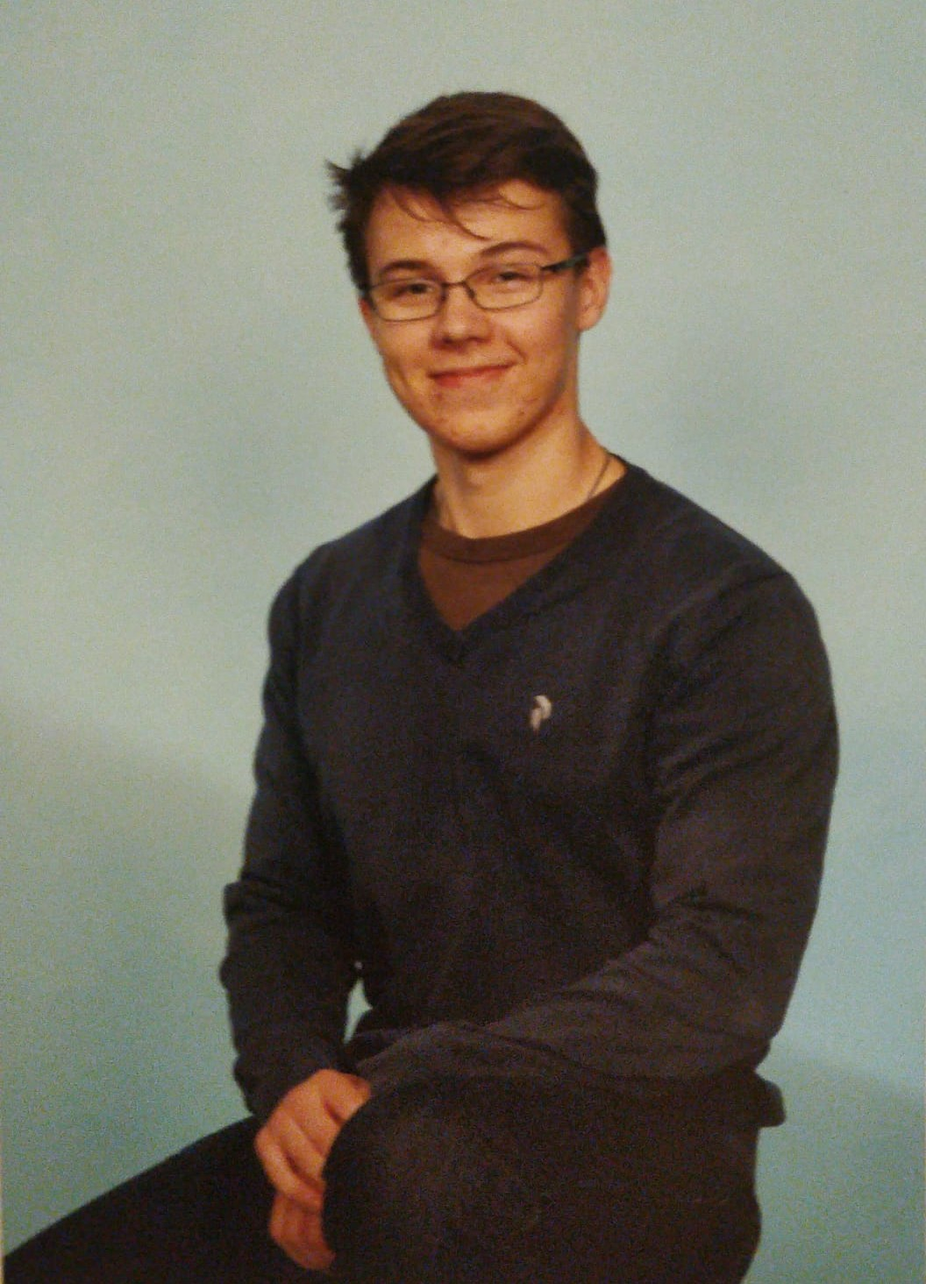
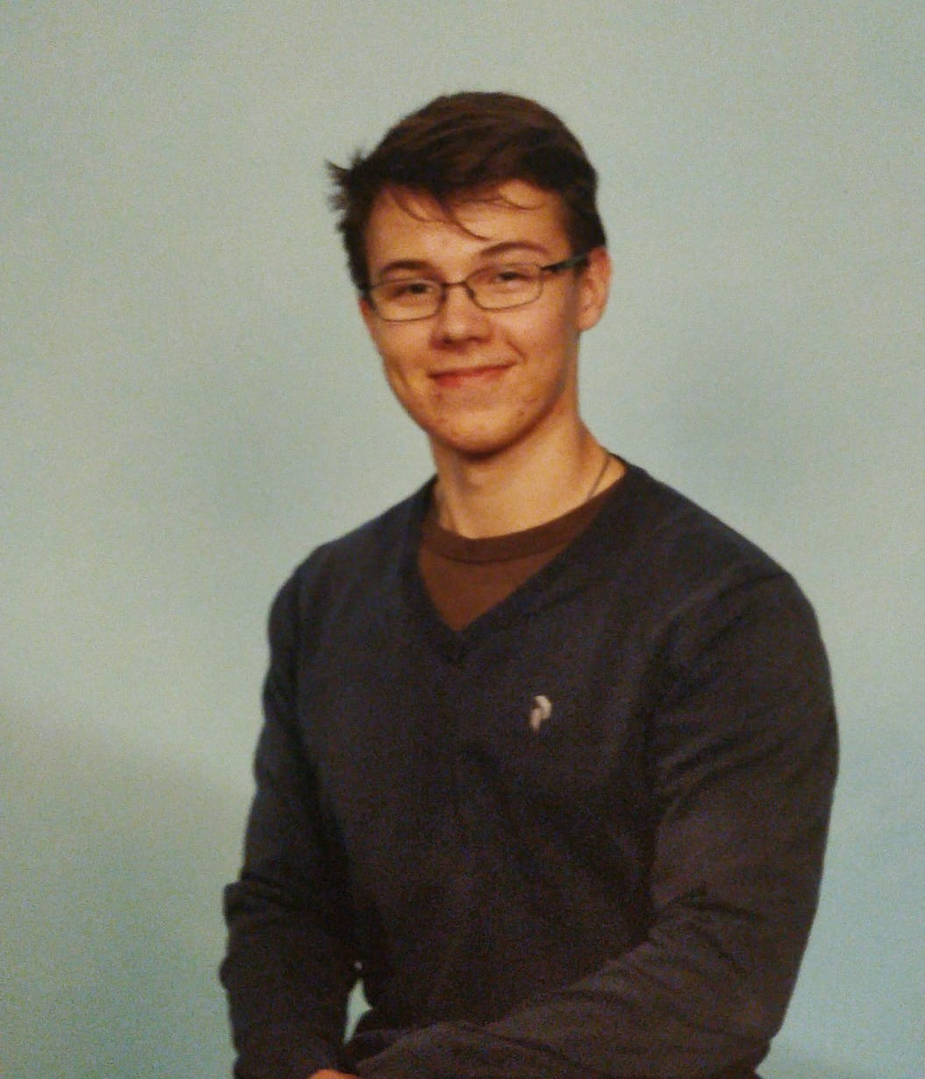
Near complete makeover of site

Changed region(s): [[0.0, 0.0618, 1.0, 1.0], [0.728, 0.5252, 0.7583, 0.5561], [0.6976, 0.5561, 0.728, 0.587]]

diff --git a/style.css b/style.css
@@ -1,1 +1,1 @@
-:root{--color__text:#f0f0f0;--color__title:#fff;--color__background:#151a1e;--color__secondary:#1c242d;--color__accent:#cbb6e7}.h1,h1{font-size:clamp(2.11rem,1.93rem + .89vw,3rem)}.h2,h2{font-size:clamp(1.88rem,1.75rem + .63vw,2.5rem)}.h3,h3{font-size:clamp(1.48rem,1.43rem + .26vw,1.74rem)}.h4,h4{font-size:clamp(1.17rem,1.16rem + .04vw,1.21rem)}.h5,h5,p{font-size:clamp(1.04rem,1.05rem - .04vw,1.01rem)}p{max-width:75ch}*{color:var(--color__text);line-height:1.5}.h1,.h2,.h3,.h4,.h5,.h6,h1,h2,h3,h4,h5,h6{color:var(--color__title);line-height:1.1}@font-face{font-display:swap;font-family:Montserrat;font-style:normal;font-weight:200;src:url(https://fonts.gstatic.com/s/montserrat/v23/JTUSjIg1_i6t8kCHKm459WRhyzbi.woff2) format("woff2");unicode-range:U+0460-052f,U+1c80-1c88,U+20b4,U+2de0-2dff,U+a640-a69f,U+fe2e-fe2f}@font-face{font-display:swap;font-family:Montserrat;font-style:normal;font-weight:200;src:url(https://fonts.gstatic.com/s/montserrat/v23/JTUSjIg1_i6t8kCHKm459W1hyzbi.woff2) format("woff2");unicode-range:U+0400-045f,U+0490-0491,U+04b0-04b1,U+2116}@font-face{font-display:swap;font-family:Montserrat;font-style:normal;font-weight:200;src:url(https://fonts.gstatic.com/s/montserrat/v23/JTUSjIg1_i6t8kCHKm459WZhyzbi.woff2) format("woff2");unicode-range:U+0102-0103,U+0110-0111,U+0128-0129,U+0168-0169,U+01a0-01a1,U+01af-01b0,U+1ea0-1ef9,U+20ab}@font-face{font-display:swap;font-family:Montserrat;font-style:normal;font-weight:200;src:url(https://fonts.gstatic.com/s/montserrat/v23/JTUSjIg1_i6t8kCHKm459Wdhyzbi.woff2) format("woff2");unicode-range:U+0100-024f,U+0259,U+1e??,U+2020,U+20a0-20ab,U+20ad-20cf,U+2113,U+2c60-2c7f,U+a720-a7ff}@font-face{font-display:swap;font-family:Montserrat;font-style:normal;font-weight:200;src:url(https://fonts.gstatic.com/s/montserrat/v23/JTUSjIg1_i6t8kCHKm459Wlhyw.woff2) format("woff2");unicode-range:U+00??,U+0131,U+0152-0153,U+02bb-02bc,U+02c6,U+02da,U+02dc,U+2000-206f,U+2074,U+20ac,U+2122,U+2191,U+2193,U+2212,U+2215,U+feff,U+fffd}@font-face{font-display:swap;font-family:Montserrat;font-style:normal;font-weight:300;src:url(https://fonts.gstatic.com/s/montserrat/v23/JTUSjIg1_i6t8kCHKm459WRhyzbi.woff2) format("woff2");unicode-range:U+0460-052f,U+1c80-1c88,U+20b4,U+2de0-2dff,U+a640-a69f,U+fe2e-fe2f}@font-face{font-display:swap;font-family:Montserrat;font-style:normal;font-weight:300;src:url(https://fonts.gstatic.com/s/montserrat/v23/JTUSjIg1_i6t8kCHKm459W1hyzbi.woff2) format("woff2");unicode-range:U+0400-045f,U+0490-0491,U+04b0-04b1,U+2116}@font-face{font-display:swap;font-family:Montserrat;font-style:normal;font-weight:300;src:url(https://fonts.gstatic.com/s/montserrat/v23/JTUSjIg1_i6t8kCHKm459WZhyzbi.woff2) format("woff2");unicode-range:U+0102-0103,U+0110-0111,U+0128-0129,U+0168-0169,U+01a0-01a1,U+01af-01b0,U+1ea0-1ef9,U+20ab}@font-face{font-display:swap;font-family:Montserrat;font-style:normal;font-weight:300;src:url(https://fonts.gstatic.com/s/montserrat/v23/JTUSjIg1_i6t8kCHKm459Wdhyzbi.woff2) format("woff2");unicode-range:U+0100-024f,U+0259,U+1e??,U+2020,U+20a0-20ab,U+20ad-20cf,U+2113,U+2c60-2c7f,U+a720-a7ff}@font-face{font-display:swap;font-family:Montserrat;font-style:normal;font-weight:300;src:url(https://fonts.gstatic.com/s/montserrat/v23/JTUSjIg1_i6t8kCHKm459Wlhyw.woff2) format("woff2");unicode-range:U+00??,U+0131,U+0152-0153,U+02bb-02bc,U+02c6,U+02da,U+02dc,U+2000-206f,U+2074,U+20ac,U+2122,U+2191,U+2193,U+2212,U+2215,U+feff,U+fffd}@font-face{font-display:swap;font-family:Montserrat;font-style:normal;font-weight:400;src:url(https://fonts.gstatic.com/s/montserrat/v23/JTUSjIg1_i6t8kCHKm459WRhyzbi.woff2) format("woff2");unicode-range:U+0460-052f,U+1c80-1c88,U+20b4,U+2de0-2dff,U+a640-a69f,U+fe2e-fe2f}@font-face{font-display:swap;font-family:Montserrat;font-style:normal;font-weight:400;src:url(https://fonts.gstatic.com/s/montserrat/v23/JTUSjIg1_i6t8kCHKm459W1hyzbi.woff2) format("woff2");unicode-range:U+0400-045f,U+0490-0491,U+04b0-04b1,U+2116}@font-face{font-display:swap;font-family:Montserrat;font-style:normal;font-weight:400;src:url(https://fonts.gstatic.com/s/montserrat/v23/JTUSjIg1_i6t8kCHKm459WZhyzbi.woff2) format("woff2");unicode-range:U+0102-0103,U+0110-0111,U+0128-0129,U+0168-0169,U+01a0-01a1,U+01af-01b0,U+1ea0-1ef9,U+20ab}@font-face{font-display:swap;font-family:Montserrat;font-style:normal;font-weight:400;src:url(https://fonts.gstatic.com/s/montserrat/v23/JTUSjIg1_i6t8kCHKm459Wdhyzbi.woff2) format("woff2");unicode-range:U+0100-024f,U+0259,U+1e??,U+2020,U+20a0-20ab,U+20ad-20cf,U+2113,U+2c60-2c7f,U+a720-a7ff}@font-face{font-display:swap;font-family:Montserrat;font-style:normal;font-weight:400;src:url(https://fonts.gstatic.com/s/montserrat/v23/JTUSjIg1_i6t8kCHKm459Wlhyw.woff2) format("woff2");unicode-range:U+00??,U+0131,U+0152-0153,U+02bb-02bc,U+02c6,U+02da,U+02dc,U+2000-206f,U+2074,U+20ac,U+2122,U+2191,U+2193,U+2212,U+2215,U+feff,U+fffd}@font-face{font-display:swap;font-family:Montserrat;font-style:normal;font-weight:700;src:url(https://fonts.gstatic.com/s/montserrat/v23/JTUSjIg1_i6t8kCHKm459WRhyzbi.woff2) format("woff2");unicode-range:U+0460-052f,U+1c80-1c88,U+20b4,U+2de0-2dff,U+a640-a69f,U+fe2e-fe2f}@font-face{font-display:swap;font-family:Montserrat;font-style:normal;font-weight:700;src:url(https://fonts.gstatic.com/s/montserrat/v23/JTUSjIg1_i6t8kCHKm459W1hyzbi.woff2) format("woff2");unicode-range:U+0400-045f,U+0490-0491,U+04b0-04b1,U+2116}@font-face{font-display:swap;font-family:Montserrat;font-style:normal;font-weight:700;src:url(https://fonts.gstatic.com/s/montserrat/v23/JTUSjIg1_i6t8kCHKm459WZhyzbi.woff2) format("woff2");unicode-range:U+0102-0103,U+0110-0111,U+0128-0129,U+0168-0169,U+01a0-01a1,U+01af-01b0,U+1ea0-1ef9,U+20ab}@font-face{font-display:swap;font-family:Montserrat;font-style:normal;font-weight:700;src:url(https://fonts.gstatic.com/s/montserrat/v23/JTUSjIg1_i6t8kCHKm459Wdhyzbi.woff2) format("woff2");unicode-range:U+0100-024f,U+0259,U+1e??,U+2020,U+20a0-20ab,U+20ad-20cf,U+2113,U+2c60-2c7f,U+a720-a7ff}@font-face{font-display:swap;font-family:Montserrat;font-style:normal;font-weight:700;src:url(https://fonts.gstatic.com/s/montserrat/v23/JTUSjIg1_i6t8kCHKm459Wlhyw.woff2) format("woff2");unicode-range:U+00??,U+0131,U+0152-0153,U+02bb-02bc,U+02c6,U+02da,U+02dc,U+2000-206f,U+2074,U+20ac,U+2122,U+2191,U+2193,U+2212,U+2215,U+feff,U+fffd}@font-face{font-family:Material Icons;font-style:normal;font-weight:400;src:url(https://fonts.gstatic.com/s/materialicons/v126/flUhRq6tzZclQEJ-Vdg-IuiaDsNc.woff2) format("woff2")}.material-icons{word-wrap:normal;-webkit-font-feature-settings:"liga";-webkit-font-smoothing:antialiased;direction:ltr;display:inline-block;font-family:Material Icons;font-size:24px;font-style:normal;font-weight:400;letter-spacing:normal;line-height:1;text-transform:none;white-space:nowrap}body,html{background:linear-gradient(45deg,hsla(0,0%,73%,.04),hsla(0,0%,73%,.04) 50%,rgba(86,86,86,.04) 0,rgba(86,86,86,.04)),linear-gradient(135deg,hsla(0,0%,65%,.04),hsla(0,0%,65%,.04) 50%,rgba(92,92,92,.04) 0,rgba(92,92,92,.04)),linear-gradient(90deg,#141414,#141414);background-size:142px 142px;margin:0;max-width:100%;overflow-x:hidden;padding:0;scroll-behavior:smooth;scrollbar-width:none}body *,html *{box-sizing:border-box;cursor:default;font-family:Montserrat,sans-serif;font-weight:400;margin:0;padding:0;text-decoration:none;transition:.3s}body ::-webkit-scrollbar,html ::-webkit-scrollbar{display:none;visibility:hidden}body ::-moz-selection,html ::-moz-selection{background:hsla(0,8%,90%,.5)}body ::-moz-selection,body ::selection,html ::-moz-selection,html ::selection{background:hsla(0,8%,90%,.5)}.noselect{-webkit-touch-callout:none;-webkit-user-select:none;-moz-user-select:none;-ms-user-select:none;user-select:none}.logo{left:10px;position:fixed;top:10px;z-index:99}.logo svg{height:70px;width:70px}.logo svg *{stroke:#e7e3e3;stroke-width:5px}.logo svg #outline{stroke-width:3px}#navigation,nav{position:fixed;top:-100vh}.opening{height:100vh;overflow:hidden;position:relative;width:100vw}.opening .openinglogo{background:transparent;position:absolute;right:75%;top:50%;transform:translate(50%,-50%)}.opening .openinglogo svg{height:800px;width:800px}.opening .openinglogo svg *{stroke:#424141;stroke-width:2px}.opening .openinglogo svg #outline{stroke-width:1px}.opening .selection{background:transparent;display:flex;line-height:6vh;margin:1vh 3vh 0 0;position:absolute;right:0;width:auto;z-index:2}.opening .selection h2{font-size:2vh;padding:0 2.5vh}.opening .selection h2 a{color:#e7e3e3;cursor:pointer}.opening .selection h2 a:hover{color:#929191}.opening .text{left:43%;position:absolute;text-align:left;top:45vh;transform:translateY(-50%)}.opening .text h1{color:#e7e3e3;font-size:10vh}.opening .text h3{color:#929191;font-size:2.5vh;margin-left:10px}.opening .some{bottom:1vh;position:absolute;right:2vw;z-index:91}.opening .some *{color:#e7e3e3;cursor:pointer;font-size:3vh;margin:0 0 0 20px;padding:1vh}.opening .some :hover{color:#929191}.informationtext{background:#424141;color:#e7e3e3;min-height:50vh;padding:15vh 10vw;position:relative;width:100vw}.informationtext h2{font-size:40px;font-weight:700}.informationtext .imagecontainer{position:absolute;right:10vw;top:3vh;width:15vw}.informationtext .imagecontainer img{width:20vh}.informationtext .container{display:flex;flex-direction:row;justify-content:space-between;margin:5vh 0 0}.informationtext .container div{width:30%}.informationtext .container div h3{font-size:20px;font-weight:700;margin:20px 0}.informationtext .container div ul{margin:10px 0 0 20px}.bearintlink{color:#96bfff;cursor:pointer}main{padding:30vh 10vw;position:relative}main *{color:#e7e3e3;list-style:none}main * a:hover{color:#929191;cursor:pointer}main div{margin:0 0 0 5vw}main h2{font-size:40px;font-weight:700}main h3{font-size:20px;margin:8vh 0 2vh}main ul{margin:10px 20px}main ul li{margin:5px}footer{background:#424141;display:flex;flex-direction:row;height:50vh;justify-content:space-evenly}footer *{color:#e7e3e3;font-size:17px;text-align:center}footer div{align-items:center;display:flex;flex-direction:column;justify-content:center}footer div h3{font-size:4vh;padding:1vh 0 2vh}footer div a{cursor:pointer}footer div a:hover{color:#424141}footer .area-2 p a{font-size:25.5px;padding:2vh}@media (max-width:950px){.informationtext .imagecontainer img{width:0}.informationtext .container{flex-direction:column}.informationtext .container div{padding-top:50px;width:80%}}@media (max-width:800px){footer{flex-direction:column;height:80vh}.opening .text h1{font-size:7vh}.opening .text h3{font-size:2vh}.opening .logo svg{height:50px;width:50px}}@media (max-width:500px){.logo svg{height:50px;width:50px}.opening .selection h2{font-size:1.7vh}.informationtext h2{font-size:30px}}.anim{opacity:0}@-webkit-keyframes movestuff{0%{margin-top:0}to{margin-top:-2vh}}@keyframes movestuff{0%{margin-top:0}to{margin-top:-2vh}}@-webkit-keyframes fade-in{0%{opacity:0}to{opacity:1}}@keyframes fade-in{0%{opacity:0}to{opacity:1}}
+:root{--color__text:#e7e7e7;--color__title:#f0f0f0;--color__background:#424141;--color__secondary:#929191;--color__accent:#e7e3e3;--font-size-1:clamp(0.58rem,calc(0.61rem - 0.17vw),0.40rem);--font-size-2:clamp(0.65rem,calc(0.68rem - 0.16vw),0.48rem);--font-size-3:clamp(0.73rem,calc(0.76rem - 0.15vw),0.58rem);--font-size-4:clamp(0.82rem,calc(0.85rem - 0.12vw),0.70rem);--font-size-5:clamp(0.93rem,calc(0.94rem - 0.09vw),0.84rem);--font-size-6:clamp(1.04rem,calc(1.05rem - 0.04vw),1.01rem);--font-size-7:clamp(1.17rem,calc(1.16rem + 0.04vw),1.21rem);--font-size-8:clamp(1.32rem,calc(1.29rem + 0.13vw),1.45rem);--font-size-9:clamp(1.48rem,calc(1.43rem + 0.26vw),1.74rem);--font-size-10:clamp(1.67rem,calc(1.58rem + 0.42vw),2.08rem);--font-size-11:clamp(1.88rem,calc(1.75rem + 0.63vw),2.50rem);--font-size-12:clamp(2.11rem,calc(1.93rem + 0.89vw),3.00rem);--font-size-13:clamp(2.37rem,calc(2.13rem + 1.23vw),3.60rem);--font-size-14:clamp(2.67rem,calc(2.34rem + 1.65vw),4.32rem);--font-size-15:clamp(3.00rem,calc(2.57rem + 2.18vw),5.18rem);--font-size-16:clamp(3.38rem,calc(2.81rem + 2.84vw),6.22rem);--font-size-17:clamp(3.80rem,calc(3.07rem + 3.66vw),7.47rem);--font-size-18:clamp(4.28rem,calc(3.34rem + 4.68vw),8.96rem);--font-size-19:clamp(4.81rem,calc(3.62rem + 5.94vw),10.75rem);--font-size-20:clamp(5.41rem,calc(3.92rem + 7.49vw),12.90rem);--font-size-21:clamp(6.09rem,calc(4.21rem + 9.39vw),15.48rem)}.h1,h1{font-size:var(--font-size-12)}.h2,h2{font-size:var(--font-size-11)}.h3,h3{font-size:var(--font-size-9)}.h4,h4{font-size:var(--font-size-7)}.h5,h5,p{font-size:var(--font-size-6)}p{max-width:75ch}*{color:var(--color__text);line-height:1.5}.h1,.h2,.h3,.h4,.h5,.h6,h1,h2,h3,h4,h5,h6{color:var(--color__title);line-height:1.1}@font-face{font-display:swap;font-family:Montserrat;font-style:normal;font-weight:200;src:url(https://fonts.gstatic.com/s/montserrat/v23/JTUSjIg1_i6t8kCHKm459WRhyzbi.woff2) format("woff2");unicode-range:U+0460-052f,U+1c80-1c88,U+20b4,U+2de0-2dff,U+a640-a69f,U+fe2e-fe2f}@font-face{font-display:swap;font-family:Montserrat;font-style:normal;font-weight:200;src:url(https://fonts.gstatic.com/s/montserrat/v23/JTUSjIg1_i6t8kCHKm459W1hyzbi.woff2) format("woff2");unicode-range:U+0400-045f,U+0490-0491,U+04b0-04b1,U+2116}@font-face{font-display:swap;font-family:Montserrat;font-style:normal;font-weight:200;src:url(https://fonts.gstatic.com/s/montserrat/v23/JTUSjIg1_i6t8kCHKm459WZhyzbi.woff2) format("woff2");unicode-range:U+0102-0103,U+0110-0111,U+0128-0129,U+0168-0169,U+01a0-01a1,U+01af-01b0,U+1ea0-1ef9,U+20ab}@font-face{font-display:swap;font-family:Montserrat;font-style:normal;font-weight:200;src:url(https://fonts.gstatic.com/s/montserrat/v23/JTUSjIg1_i6t8kCHKm459Wdhyzbi.woff2) format("woff2");unicode-range:U+0100-024f,U+0259,U+1e??,U+2020,U+20a0-20ab,U+20ad-20cf,U+2113,U+2c60-2c7f,U+a720-a7ff}@font-face{font-display:swap;font-family:Montserrat;font-style:normal;font-weight:200;src:url(https://fonts.gstatic.com/s/montserrat/v23/JTUSjIg1_i6t8kCHKm459Wlhyw.woff2) format("woff2");unicode-range:U+00??,U+0131,U+0152-0153,U+02bb-02bc,U+02c6,U+02da,U+02dc,U+2000-206f,U+2074,U+20ac,U+2122,U+2191,U+2193,U+2212,U+2215,U+feff,U+fffd}@font-face{font-display:swap;font-family:Montserrat;font-style:normal;font-weight:300;src:url(https://fonts.gstatic.com/s/montserrat/v23/JTUSjIg1_i6t8kCHKm459WRhyzbi.woff2) format("woff2");unicode-range:U+0460-052f,U+1c80-1c88,U+20b4,U+2de0-2dff,U+a640-a69f,U+fe2e-fe2f}@font-face{font-display:swap;font-family:Montserrat;font-style:normal;font-weight:300;src:url(https://fonts.gstatic.com/s/montserrat/v23/JTUSjIg1_i6t8kCHKm459W1hyzbi.woff2) format("woff2");unicode-range:U+0400-045f,U+0490-0491,U+04b0-04b1,U+2116}@font-face{font-display:swap;font-family:Montserrat;font-style:normal;font-weight:300;src:url(https://fonts.gstatic.com/s/montserrat/v23/JTUSjIg1_i6t8kCHKm459WZhyzbi.woff2) format("woff2");unicode-range:U+0102-0103,U+0110-0111,U+0128-0129,U+0168-0169,U+01a0-01a1,U+01af-01b0,U+1ea0-1ef9,U+20ab}@font-face{font-display:swap;font-family:Montserrat;font-style:normal;font-weight:300;src:url(https://fonts.gstatic.com/s/montserrat/v23/JTUSjIg1_i6t8kCHKm459Wdhyzbi.woff2) format("woff2");unicode-range:U+0100-024f,U+0259,U+1e??,U+2020,U+20a0-20ab,U+20ad-20cf,U+2113,U+2c60-2c7f,U+a720-a7ff}@font-face{font-display:swap;font-family:Montserrat;font-style:normal;font-weight:300;src:url(https://fonts.gstatic.com/s/montserrat/v23/JTUSjIg1_i6t8kCHKm459Wlhyw.woff2) format("woff2");unicode-range:U+00??,U+0131,U+0152-0153,U+02bb-02bc,U+02c6,U+02da,U+02dc,U+2000-206f,U+2074,U+20ac,U+2122,U+2191,U+2193,U+2212,U+2215,U+feff,U+fffd}@font-face{font-display:swap;font-family:Montserrat;font-style:normal;font-weight:400;src:url(https://fonts.gstatic.com/s/montserrat/v23/JTUSjIg1_i6t8kCHKm459WRhyzbi.woff2) format("woff2");unicode-range:U+0460-052f,U+1c80-1c88,U+20b4,U+2de0-2dff,U+a640-a69f,U+fe2e-fe2f}@font-face{font-display:swap;font-family:Montserrat;font-style:normal;font-weight:400;src:url(https://fonts.gstatic.com/s/montserrat/v23/JTUSjIg1_i6t8kCHKm459W1hyzbi.woff2) format("woff2");unicode-range:U+0400-045f,U+0490-0491,U+04b0-04b1,U+2116}@font-face{font-display:swap;font-family:Montserrat;font-style:normal;font-weight:400;src:url(https://fonts.gstatic.com/s/montserrat/v23/JTUSjIg1_i6t8kCHKm459WZhyzbi.woff2) format("woff2");unicode-range:U+0102-0103,U+0110-0111,U+0128-0129,U+0168-0169,U+01a0-01a1,U+01af-01b0,U+1ea0-1ef9,U+20ab}@font-face{font-display:swap;font-family:Montserrat;font-style:normal;font-weight:400;src:url(https://fonts.gstatic.com/s/montserrat/v23/JTUSjIg1_i6t8kCHKm459Wdhyzbi.woff2) format("woff2");unicode-range:U+0100-024f,U+0259,U+1e??,U+2020,U+20a0-20ab,U+20ad-20cf,U+2113,U+2c60-2c7f,U+a720-a7ff}@font-face{font-display:swap;font-family:Montserrat;font-style:normal;font-weight:400;src:url(https://fonts.gstatic.com/s/montserrat/v23/JTUSjIg1_i6t8kCHKm459Wlhyw.woff2) format("woff2");unicode-range:U+00??,U+0131,U+0152-0153,U+02bb-02bc,U+02c6,U+02da,U+02dc,U+2000-206f,U+2074,U+20ac,U+2122,U+2191,U+2193,U+2212,U+2215,U+feff,U+fffd}@font-face{font-display:swap;font-family:Montserrat;font-style:normal;font-weight:700;src:url(https://fonts.gstatic.com/s/montserrat/v23/JTUSjIg1_i6t8kCHKm459WRhyzbi.woff2) format("woff2");unicode-range:U+0460-052f,U+1c80-1c88,U+20b4,U+2de0-2dff,U+a640-a69f,U+fe2e-fe2f}@font-face{font-display:swap;font-family:Montserrat;font-style:normal;font-weight:700;src:url(https://fonts.gstatic.com/s/montserrat/v23/JTUSjIg1_i6t8kCHKm459W1hyzbi.woff2) format("woff2");unicode-range:U+0400-045f,U+0490-0491,U+04b0-04b1,U+2116}@font-face{font-display:swap;font-family:Montserrat;font-style:normal;font-weight:700;src:url(https://fonts.gstatic.com/s/montserrat/v23/JTUSjIg1_i6t8kCHKm459WZhyzbi.woff2) format("woff2");unicode-range:U+0102-0103,U+0110-0111,U+0128-0129,U+0168-0169,U+01a0-01a1,U+01af-01b0,U+1ea0-1ef9,U+20ab}@font-face{font-display:swap;font-family:Montserrat;font-style:normal;font-weight:700;src:url(https://fonts.gstatic.com/s/montserrat/v23/JTUSjIg1_i6t8kCHKm459Wdhyzbi.woff2) format("woff2");unicode-range:U+0100-024f,U+0259,U+1e??,U+2020,U+20a0-20ab,U+20ad-20cf,U+2113,U+2c60-2c7f,U+a720-a7ff}@font-face{font-display:swap;font-family:Montserrat;font-style:normal;font-weight:700;src:url(https://fonts.gstatic.com/s/montserrat/v23/JTUSjIg1_i6t8kCHKm459Wlhyw.woff2) format("woff2");unicode-range:U+00??,U+0131,U+0152-0153,U+02bb-02bc,U+02c6,U+02da,U+02dc,U+2000-206f,U+2074,U+20ac,U+2122,U+2191,U+2193,U+2212,U+2215,U+feff,U+fffd}@font-face{font-family:Material Icons;font-style:normal;font-weight:400;src:url(https://fonts.gstatic.com/s/materialicons/v126/flUhRq6tzZclQEJ-Vdg-IuiaDsNc.woff2) format("woff2")}.material-icons{word-wrap:normal;-webkit-font-feature-settings:"liga";-webkit-font-smoothing:antialiased;direction:ltr;display:inline-block;font-family:Material Icons;font-size:24px;font-style:normal;font-weight:400;letter-spacing:normal;line-height:1;text-transform:none;white-space:nowrap}body,html{background-color:var(--color__background);background:linear-gradient(45deg,hsla(0,0%,73%,.04),hsla(0,0%,73%,.04) 50%,rgba(86,86,86,.04) 0,rgba(86,86,86,.04)),linear-gradient(135deg,hsla(0,0%,65%,.04),hsla(0,0%,65%,.04) 50%,rgba(92,92,92,.04) 0,rgba(92,92,92,.04)),linear-gradient(90deg,#141414,#141414);background-size:142px 142px;margin:0;max-width:100%;overflow-x:hidden;padding:0;scroll-behavior:smooth;scrollbar-width:none}body *,html *{box-sizing:border-box;cursor:default;font-family:Montserrat,sans-serif;font-weight:400;margin:0;padding:0;text-decoration:none;transition:.3s}body ::-webkit-scrollbar,html ::-webkit-scrollbar{display:none;visibility:hidden}body ::-moz-selection,html ::-moz-selection{background:hsla(0,8%,90%,.5)}body ::-moz-selection,body ::selection,html ::-moz-selection,html ::selection{background:hsla(0,8%,90%,.5)}body a,html a{text-decoration:underline}body a:hover,html a:hover{color:var(--color__secondary);cursor:pointer}.noselect{-webkit-touch-callout:none;-webkit-user-select:none;-moz-user-select:none;-ms-user-select:none;user-select:none}.logo{left:10px;position:fixed;top:10px;z-index:2}.logo svg{height:70px;width:70px}.logo svg *{stroke:var(--color__text);stroke-width:5px}.logo svg #outline{stroke-width:3px}.some{bottom:1vh;position:fixed;right:2vw;z-index:2}.some *{cursor:pointer;font-size:3vh;font-weight:800;padding:1vh;text-decoration:none}.selection{display:flex;line-height:6vh;position:fixed;right:3vh;top:2vh;z-index:2}.selection h2{font-size:2vh;padding:0 2.5vh}.selection h2 a{cursor:pointer;text-decoration:none}.selection h2 a:hover{color:#929191}.opening{height:100vh;overflow:hidden;position:relative;width:100vw}.opening .openinglogo{position:absolute;right:75%;top:50%;transform:translate(50%,-50%)}.opening .openinglogo svg{height:800px;width:800px}.opening .openinglogo svg *{stroke:var(--color__background);stroke-width:2px}.opening .openinglogo svg #outline{stroke-width:1px}.opening .text{left:10%;position:absolute;top:45vh;transform:translateY(-50%)}.opening .text h1{font-size:var(--font-size-16)}.opening .text h3{color:var(--color__secondary);font-size:var(--font-size-9);margin-left:10px}@media (min-width:900px){.opening .text{left:43%}}main{margin:auto;min-height:50vh;padding-top:15vh;position:relative;width:clamp(300px,90vw,800px)}main h2{font-weight:700}main div{position:relative}main div h3{font-weight:700;margin:20px 0}main .Profession{margin-top:50vh}@media (min-width:600px){main .Profession{margin-top:30vh}}main .Education{margin-top:40vh}@media (min-width:400px){main .Education{margin-top:25vh}}main .image__me{border-radius:100%;filter:grayscale(.6);float:right;height:250px;-o-object-fit:cover;object-fit:cover;position:relative;width:250px}@media (max-width:600px){main .image__me{left:50%;position:absolute;top:30vh;transform:translateX(-50%)}}main .image__linkedin{background-color:var(--color__text);border-radius:100%;display:none;float:right;height:100px;justify-content:center;margin:10px;width:100px}main .image__linkedin a{color:var(--color__background);font-size:70px;font-weight:700;line-height:100px;text-decoration:none}@media (min-width:900px){main .image__linkedin{display:flex}}main .image__bearint{float:left;margin:1px 30px 30px 0}main .image__bearint,main .image__bearint img{height:150px;width:150px}@media (max-width:400px){main .image__bearint{position:absolute;top:45vh}}footer{display:flex;flex-direction:row;height:90vh;justify-content:center}footer *{font-size:17px;text-align:center}footer div{align-items:center;display:flex;flex-direction:column;justify-content:center}footer div h3{font-size:4vh;padding:1vh 0 2vh}@media (max-width:800px){.opening .text h1{font-size:7vh}.opening .text h3{font-size:2vh}.logo svg{height:50px;width:50px}}@media (max-width:500px){.opening .selection h2{font-size:1.7vh}.informationtext h2{font-size:30px}}.anim{opacity:0}@-webkit-keyframes movestuff{0%{opacity:0;transform:translateY(20px)}to{opacity:1;transform:translateY(0)}}@keyframes movestuff{0%{opacity:0;transform:translateY(20px)}to{opacity:1;transform:translateY(0)}}@-webkit-keyframes fade-in{0%{opacity:0}to{opacity:1}}@keyframes fade-in{0%{opacity:0}to{opacity:1}}

diff --git a/index.htm b/index.htm
@@ -22,13 +22,8 @@
         <link rel="stylesheet" type="text/css" href="style.css">
     </head>
 <body>
-    <div id="navigation" onclick="closeNav()">
-        <h2><a href="">HOME</a></h2>
-        <h2><a href="#info">INFO</a></h2>
-        <h2><a href="#footer">CONTACTS</a></h2>
-    </div>
 
-    <a class="logo" href="index.htm">
+    <a class="logo" href="index.htm#">
         <svg width="192" height="180" viewBox="0 0 192 180" fill="none" xmlns="http://www.w3.org/2000/svg">
             <circle cx="90" cy="90" r="89.5" stroke="black" id="outline"/>
             <circle cx="65.5" cy="106.5" r="59.5" stroke="black" stroke-width="2"/>
@@ -36,6 +31,15 @@
             <path d="M155 87L9 87" stroke="black" stroke-width="2"/>
         </svg>
     </a>
+    
+    <div class="selection">
+        <h2><a href="#info">INFO</a></h2>
+        <h2><a href="#footer">CONTACT</a></h2>
+    </div>
+    
+    <div class="some" id="some">
+        <a target="_blank" href="http://www.linkedin.com/in/otsoaksela">in</a>
+    </div>
 
     <div class="opening noselect" id="home">
         <div class="openinglogo">
@@ -47,96 +51,44 @@
             </svg>
         </div>
 
-        <div class="selection">
-            <h2><a href="#info">INFO</a></h2>
-            <h2><a href="#portfolio">PORTFOLIO</a></h2>
-            <h2><a href="#footer">CONTACTS</a></h2>
-        </div>
-
-        <nav onclick="openNav()">
-            <i id="menu-icon" class="material-icons md-36">menu</i>
-        </nav>
-
         <div class="text">
             <h1 class="anim" data-type="fade-in" data-duration="0.8s">OTSO AKSELA</h1>
             <h3 class="anim" data-type="fade-in" data-duration="0.8s" data-delay="0.8s">19 year old student and entrepreneur.</h3>
         </div>
-
-        <div class="some" id="some">
-            <a target="_blank" href="http://www.linkedin.com/in/otsoaksela" class="fa fa-linkedin"></a><a target="_blank" href="https://twitter.com/akselaotso" class="fa fa-twitter"></a>
-        </div>
-
     </div>
 
-    <div class="informationtext" id="info">
+    <main id="info">
+        <img src="./images/school_photo.jpeg" alt="" loading="lazy" class="image__me">
         <h2>Me, essentially</h2>
-        <div class="imagecontainer anim" data-type="movestuff" style="opacity: 1;">
-            <img src="./images/school_photo.jpeg" alt="" class="anim" data-type="movestuff" style="opacity: 1;">
+        <br>
+        <p>I enjoy programming, running and powerlifting.</p>
+        <div class="Profession">
+            <div class="image__bearint">
+                <a href="https://www.bearint.fi" target="_blank"><img loading="lazy" src="./images/logo_default.png" alt=""></a>
+            </div>
+            <h3>Professionally</h3>
+            <p>I started my own webdevelopment company Bearint Oy in June 2021. To find out more, visit
+                <a href="https://www.bearint.fi" class="bearintlink" target="_blank">www.bearint.fi</a>, the company's webpage.
+                <br><br> Right before starting my military service I worked at a HSY garbage disposal station, to which I returned before heading to uni.
+                I've worked as a selfemployed gardener, preceded by a summerjob at a gardening store.</p>
         </div>
-        <div class="container">
-            <div class="Hobbies">
-                <h3>In general</h3>
-                <p>I'm Otso Aksela, a 19 year old student who enjoys programming, running and powerlifting.</p>
+        <div class="Education">
+            <div class="image__linkedin">
+                <a class="" target="_blank" href="http://www.linkedin.com/in/otsoaksela">in</a>
             </div>
-            <div class="Profession">
-                <h3>Professional life</h3>
-                <p>I started my own webdevelopment company Bearint Oy in June 2021. To find out more, visit
-                  <a href="https://www.bearint.fi" class="bearintlink" target="_blank">www.bearint.fi</a>, the company's webpage.
-                  <br><br> Right before starting my military service I worked at a HSY garbage disposal station.
-                  Previously I've worked as a selfemployed gardener for two years, preceded by a summerjob at a gardening store.</p>
-            </div>
-            <div class="Education">
-                <h3>Education</h3>
-                <p>After my military service I'll be starting my studies in automation and information technology at Aalto University in 2022,
-                  having graduated with an International Baccalaureate diploma from Etelä-Tapiola high school.</p>
-            </div>
-        </div>
-    </div>
-
-    <main>
-        <h2 id="portfolio">Portfolio</h2>
-        <div>
-            <h3>Essays and Investigations</h3>
-            <p>Here are some essays and investigations I've written or conducted. I am not an expert in these fields.</p>
-            <ul>
-                <li><a target="_blank" href="./Documents/Otso_Aksela-Modelling_population_sizes_and_changes.pdf">
-                    Otso Aksela - Modelling population sizes and changes.</a></li>
-                <li><a target="_blank" href="./Documents/Otso_Aksela-Upward_Force_from_Air_Resistance_in_Paper_Helicopters.pdf">
-                    Otso Aksela - Upward force from air resistance in paper helicopters.</a></li>
-                <li><a target="_blank" href="./Documents/Otso_Aksela-President_Truman_and_crossing_the_38th_parallel_in_the_Korean_War.pdf">
-                    Otso Aksela - President Truman and crossing the 38th parallel in the Korean War.</a></li>
-                <li><a target="_blank" href="./Documents/Otso_Aksela-Were_there_any_victors_in_the_war_of_1812.pdf">
-                    Otso Aksela - Were there any victors in the war of 1812?</a></li>
-                <li><a target="_blank" href="./Documents/Otso_Aksela-To_what_extent_was_Apple_aquiring_Shazam_a_profitable_investment.pdf">
-                    Otso Aksela - To what extent was Apple aquiring Shazam a profitable investment?</a></li>
-            </ul>
-
-            <h3>Websites</h3>
-            <p>Here are some websites I've made.</p>
-            <ul>
-                <li><a target="_blank" href="https://www.bearint.fi">Bearint Oy - my webdevelopment company</a></li>
-                <li><a href="index.htm#portfolio">Personal site - the one you're on</a></li>
-                <li><a target="_blank" href="./delta-attack/index.htm">Delta-Attack Blues Duo</a></li>
-                <li><a target="_blank" href="./Akso/index.htm">Akso Gardening - no longer active, kept for the portfolio.</a></li>
-            </ul>
+            <h3>And My Education</h3>
+            <p>I'm starting my studies in information technology at Aalto University in 2022,
+                having graduated with an International Baccalaureate diploma from Etelä-Tapiola high school.</p>
         </div>
     </main>
 
     <footer id="footer">
         <div class="area-1">
             <h3>Contact me:</h3>
-            <p>Email:</p>
-            <a href="mailto:akselaotso@gmail.com">akselaotso@gmail.com</a>
-        </div>
-        <div class="area-2">
-            <h3>Find me online:</h3>
-            <p><a target="_blank" href="http://www.linkedin.com/in/otsoaksela" class="fa fa-linkedin"></a><a target="_blank" href="https://twitter.com/akselaotso" class="fa fa-twitter"></a></p>
+            <a href="mailto:otso.aksela@bearint.fi">otso.aksela@bearint.fi</a>
         </div>
     </footer>
 
     <script type="text/javascript" src="effect/effect.js"></script>
-
-    <!-- Effects -->
-    <link rel="stylesheet" href="https://cdnjs.cloudflare.com/ajax/libs/font-awesome/4.7.0/css/font-awesome.min.css"><!-- Font Awesome -->
 </body>
 </html>
